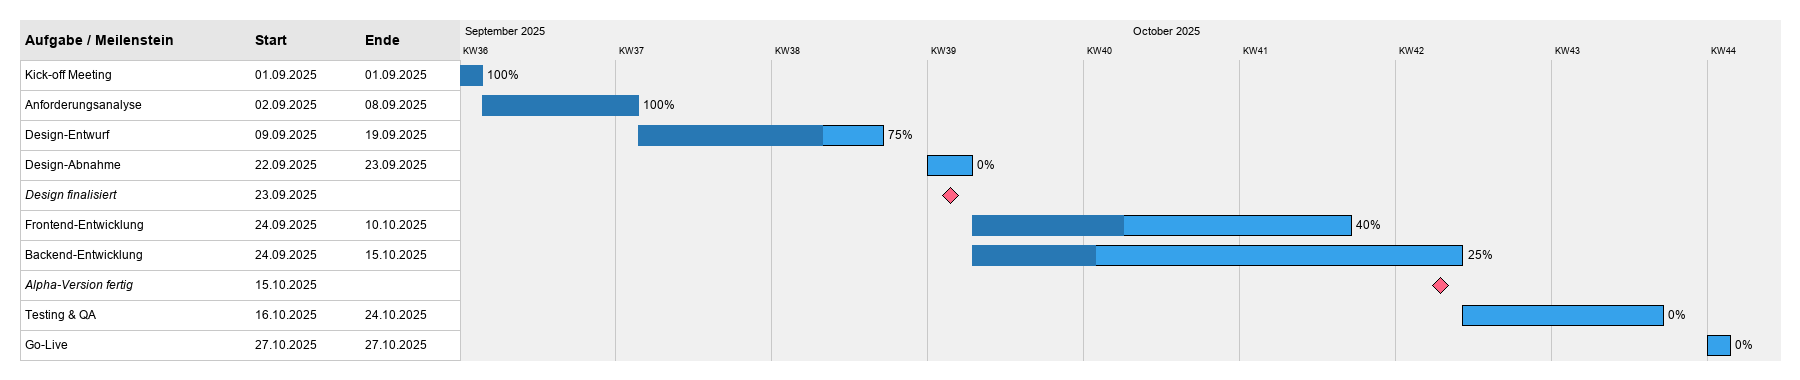
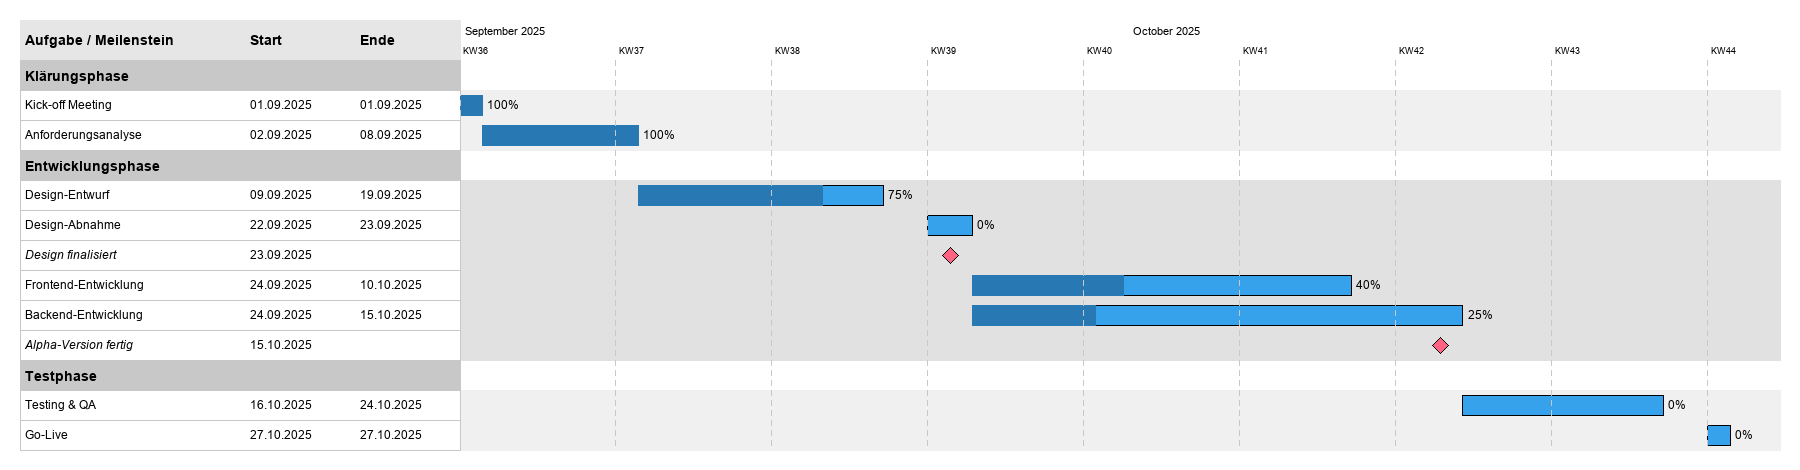
Phases

diff --git a/Gantt.py b/Gantt.py
@@ -24,7 +24,6 @@ def find_font(font_names):
 
 # --- Konfiguration ---
 # Schriften
-# Sucht automatisch nach einer passenden Schriftart, die Umlaute unterstützt.
 FONT_REGULAR_PATH = find_font(["arial.ttf", "DejaVuSans.ttf"])
 FONT_BOLD_PATH = find_font(["arialbd.ttf", "DejaVuSans-Bold.ttf"])
 FONT_ITALIC_PATH = find_font(["ariali.ttf", "DejaVuSans-Oblique.ttf"])
@@ -38,116 +37,104 @@ if FONT_REGULAR_PATH:
     FONT_CHART_WEEK = ImageFont.truetype(FONT_REGULAR_PATH, 9)
 else:
     print("Warnung: Keine passende Schriftart gefunden, die Umlaute unterstützt. Verwende Standard-Schriftart.")
-    print("Umlaute werden möglicherweise nicht korrekt dargestellt.")
     FONT_BOLD = ImageFont.load_default()
     FONT_REGULAR = ImageFont.load_default()
     FONT_ITALIC = FONT_REGULAR
     FONT_CHART_HEADER = ImageFont.load_default()
     FONT_CHART_WEEK = ImageFont.load_default()
 
-
 # Farben
 COLOR_WHITE = (255, 255, 255)
 COLOR_BLACK = (0, 0, 0)
 COLOR_GREY_LIGHT = (240, 240, 240)
+COLOR_GREY_DARK = (225, 225, 225) # Für abwechselnde Zeilen
 COLOR_GREY_MEDIUM = (200, 200, 200)
 COLOR_BLUE_PRIMARY = (54, 162, 235)
-COLOR_BLUE_DARK = (40, 120, 180) # Farbe für den Fortschrittsbalken
+COLOR_BLUE_DARK = (40, 120, 180)
 COLOR_HEADER_BG = (230, 230, 230)
+COLOR_CATEGORY_BG = (200, 200, 200)
 COLOR_RED_MILESTONE = (255, 99, 132)
 
 # Layout
 TOTAL_IMAGE_WIDTH = 1800
 PADDING = 20
-TABLE_WIDTH = 440 # Breite an die entfernte Spalte angepasst
+TABLE_WIDTH = 440
 HEADER_HEIGHT = 40
 ROW_HEIGHT = 30
 SPACE_BETWEEN = 0
-MILESTONE_SIZE = 8 # Größe der Raute
-TEXT_AREA_WIDTH = 50 # Platz für den Erfüllungsgrad-Text neben den Balken
+MILESTONE_SIZE = 8
+TEXT_AREA_WIDTH = 50
 
 # --- 1. Daten definieren ---
 tasks_data = [
-    {'name': 'Kick-off Meeting', 'start': datetime.date(2025, 9, 1), 'duration': 1, 'completion': 100},
-    {'name': 'Anforderungsanalyse', 'start': datetime.date(2025, 9, 2), 'duration': 7, 'completion': 100},
-    {'name': 'Design-Entwurf', 'start': datetime.date(2025, 9, 9), 'duration': 11, 'completion': 75},
-    {'name': 'Design-Abnahme', 'start': datetime.date(2025, 9, 22), 'duration': 2, 'completion': 0},
-    {'name': 'Frontend-Entwicklung', 'start': datetime.date(2025, 9, 24), 'duration': 17, 'completion': 40},
-    {'name': 'Backend-Entwicklung', 'start': datetime.date(2025, 9, 24), 'duration': 22, 'completion': 25},
-    {'name': 'Testing & QA', 'start': datetime.date(2025, 10, 16), 'duration': 9, 'completion': 0},
-    {'name': 'Go-Live', 'start': datetime.date(2025, 10, 27), 'duration': 1, 'completion': 0}
+    {'name': 'Kick-off Meeting', 'category': 'Klärungsphase', 'start': datetime.date(2025, 9, 1), 'duration': 1, 'completion': 100},
+    {'name': 'Anforderungsanalyse', 'category': 'Klärungsphase', 'start': datetime.date(2025, 9, 2), 'duration': 7, 'completion': 100},
+    {'name': 'Design-Entwurf', 'category': 'Entwicklungsphase', 'start': datetime.date(2025, 9, 9), 'duration': 11, 'completion': 75},
+    {'name': 'Design-Abnahme', 'category': 'Entwicklungsphase', 'start': datetime.date(2025, 9, 22), 'duration': 2, 'completion': 0},
+    {'name': 'Frontend-Entwicklung', 'category': 'Entwicklungsphase', 'start': datetime.date(2025, 9, 24), 'duration': 17, 'completion': 40},
+    {'name': 'Backend-Entwicklung', 'category': 'Entwicklungsphase', 'start': datetime.date(2025, 9, 24), 'duration': 22, 'completion': 25},
+    {'name': 'Testing & QA', 'category': 'Testphase', 'start': datetime.date(2025, 10, 16), 'duration': 9, 'completion': 0},
+    {'name': 'Go-Live', 'category': 'Testphase', 'start': datetime.date(2025, 10, 27), 'duration': 1, 'completion': 0}
 ]
 
 milestones_data = [
-    {'name': 'Design finalisiert', 'date': datetime.date(2025, 9, 23)},
-    {'name': 'Alpha-Version fertig', 'date': datetime.date(2025, 10, 15)}
+    {'name': 'Design finalisiert', 'category': 'Entwicklungsphase', 'date': datetime.date(2025, 9, 23)},
+    {'name': 'Alpha-Version fertig', 'category': 'Entwicklungsphase', 'date': datetime.date(2025, 10, 15)}
 ]
 
-# Daten für die Verarbeitung vorbereiten
-project_items = []
+# Daten für die Verarbeitung vorbereiten und gruppieren
+all_items = []
 for task in tasks_data:
     task['type'] = 'task'
     task['end'] = task['start'] + timedelta(days=task['duration'] - 1)
-    project_items.append(task)
+    all_items.append(task)
 
 for milestone in milestones_data:
     milestone['type'] = 'milestone'
-    milestone['start'] = milestone['date'] # Für die Sortierung
-    project_items.append(milestone)
+    milestone['start'] = milestone['date']
+    all_items.append(milestone)
 
-# Alle Einträge nach Startdatum sortieren
-project_items.sort(key=lambda x: x['start'])
+# Nach Kategorien gruppieren
+categorized_items = {}
+category_order = []
+for item in all_items:
+    category = item.get('category', 'Sonstiges')
+    if category not in categorized_items:
+        categorized_items[category] = []
+        category_order.append(category)
+    categorized_items[category].append(item)
 
+# Einträge innerhalb jeder Kategorie nach Datum sortieren
+for category in categorized_items:
+    categorized_items[category].sort(key=lambda x: x['start'])
 
 # --- 2. Bilddimensionen berechnen ---
-project_start_date = min(item['start'] for item in project_items)
-project_end_date = max(item.get('end', item['start']) for item in project_items)
+project_start_date = min(item['start'] for item in all_items)
+project_end_date = max(item.get('end', item['start']) for item in all_items)
 project_duration_days = (project_end_date - project_start_date).days + 1
 
 CHART_WIDTH = TOTAL_IMAGE_WIDTH - (PADDING * 2 + TABLE_WIDTH + SPACE_BETWEEN + TEXT_AREA_WIDTH)
-if CHART_WIDTH < 200:
-    CHART_WIDTH = 200
-    print("Warnung: TOTAL_IMAGE_WIDTH ist sehr klein. Der Chart wird auf 200px Breite begrenzt.")
-
 pixels_per_day = CHART_WIDTH / project_duration_days
 
-IMG_HEIGHT = PADDING * 2 + HEADER_HEIGHT + len(project_items) * ROW_HEIGHT
+IMG_HEIGHT = PADDING * 2 + HEADER_HEIGHT + (len(all_items) + len(category_order)) * ROW_HEIGHT
 IMG_WIDTH = TOTAL_IMAGE_WIDTH
 
 # --- 3. Bild-Leinwand erstellen ---
 image = Image.new('RGB', (int(IMG_WIDTH), IMG_HEIGHT), COLOR_WHITE)
 draw = ImageDraw.Draw(image)
 
-# --- 4. Tabelle zeichnen ---
+# --- 4. Tabelle und Diagramm-Hintergrund zeichnen ---
 table_x, table_y = PADDING, PADDING
-col1_x, col2_x, col3_x = table_x, table_x + 230, table_x + 340
-
-# Tabellenüberschrift
-draw.rectangle([table_x, table_y, table_x + TABLE_WIDTH, table_y + HEADER_HEIGHT], fill=COLOR_HEADER_BG)
-draw.text((col1_x + 5, table_y + 12), "Aufgabe / Meilenstein", font=FONT_BOLD, fill=COLOR_BLACK)
-draw.text((col2_x + 5, table_y + 12), "Start", font=FONT_BOLD, fill=COLOR_BLACK)
-draw.text((col3_x + 5, table_y + 12), "Ende", font=FONT_BOLD, fill=COLOR_BLACK)
-
-# Tabellenzeilen
-current_y = table_y + HEADER_HEIGHT
-for item in project_items:
-    draw.rectangle([table_x, current_y, table_x + TABLE_WIDTH, current_y + ROW_HEIGHT], outline=COLOR_GREY_MEDIUM)
-    if item['type'] == 'task':
-        draw.text((col1_x + 5, current_y + 8), item['name'], font=FONT_REGULAR, fill=COLOR_BLACK)
-        draw.text((col2_x + 5, current_y + 8), item['start'].strftime('%d.%m.%Y'), font=FONT_REGULAR, fill=COLOR_BLACK)
-        draw.text((col3_x + 5, current_y + 8), item['end'].strftime('%d.%m.%Y'), font=FONT_REGULAR, fill=COLOR_BLACK)
-    elif item['type'] == 'milestone':
-        draw.text((col1_x + 5, current_y + 8), item['name'], font=FONT_ITALIC, fill=COLOR_BLACK)
-        draw.text((col2_x + 5, current_y + 8), item['date'].strftime('%d.%m.%Y'), font=FONT_REGULAR, fill=COLOR_BLACK)
-    current_y += ROW_HEIGHT
-
-# --- 5. Gantt-Diagramm zeichnen ---
 chart_x = table_x + TABLE_WIDTH + SPACE_BETWEEN
 chart_y = table_y
 
-# Chart-Hintergrund und Zeitachse
-draw.rectangle([chart_x, chart_y, chart_x + CHART_WIDTH + TEXT_AREA_WIDTH, IMG_HEIGHT - PADDING], fill=COLOR_GREY_LIGHT)
+# Globale Überschriften
+draw.rectangle([table_x, table_y, table_x + TABLE_WIDTH, table_y + HEADER_HEIGHT], fill=COLOR_HEADER_BG)
+draw.text((table_x + 5, table_y + 12), "Aufgabe / Meilenstein", font=FONT_BOLD, fill=COLOR_BLACK)
+draw.text((table_x + 230, table_y + 12), "Start", font=FONT_BOLD, fill=COLOR_BLACK)
+draw.text((table_x + 340, table_y + 12), "Ende", font=FONT_BOLD, fill=COLOR_BLACK)
 
+# Zeitachsen-Überschriften (Monat und KW)
 current_date = project_start_date
 while current_date <= project_end_date:
     if current_date.day == 1:
@@ -155,51 +142,75 @@ while current_date <= project_end_date:
         draw.text((month_start_x + 5, chart_y + 5), current_date.strftime('%B %Y'), font=FONT_CHART_HEADER, fill=COLOR_BLACK)
     if current_date.weekday() == 0:
         line_x = chart_x + ((current_date - project_start_date).days * pixels_per_day)
-        draw.line([(line_x, chart_y + HEADER_HEIGHT), (line_x, IMG_HEIGHT - PADDING)], fill=COLOR_GREY_MEDIUM, width=1)
         week_num = current_date.isocalendar()[1]
         draw.text((line_x + 3, chart_y + 25), f"KW{week_num}", font=FONT_CHART_WEEK, fill=COLOR_BLACK)
     current_date += timedelta(days=1)
 
-# Chart-Elemente (Balken und Rauten)
-current_y = chart_y + HEADER_HEIGHT
-for item in project_items:
-    if item['type'] == 'task':
-        start_offset_days = (item['start'] - project_start_date).days
-        bar_x = chart_x + (start_offset_days * pixels_per_day)
-        bar_width = item['duration'] * pixels_per_day
-        bar_y_top = current_y + 5
-        bar_y_bottom = current_y + ROW_HEIGHT - 5
-        
-        # Haupt-Balken zeichnen
-        draw.rectangle([bar_x, bar_y_top, bar_x + bar_width, bar_y_bottom], fill=COLOR_BLUE_PRIMARY, outline=COLOR_BLACK)
-        
-        # Fortschrittsbalken darüber zeichnen
-        completion_width = bar_width * (item.get('completion', 0) / 100)
-        if completion_width > 0:
-            draw.rectangle(
-                [bar_x, bar_y_top, bar_x + completion_width, bar_y_bottom],
-                fill=COLOR_BLUE_DARK
-            )
-        
-        # Erfüllungsgrad-Text neben den Balken schreiben
-        text_x = bar_x + bar_width + 5
-        text_y = current_y + 8
-        draw.text((text_x, text_y), f"{item.get('completion', 0)}%", font=FONT_REGULAR, fill=COLOR_BLACK)
-
-    elif item['type'] == 'milestone':
-        date_offset_days = (item['date'] - project_start_date).days
-        center_x = chart_x + (date_offset_days * pixels_per_day)
-        center_y = current_y + (ROW_HEIGHT / 2)
-        
-        points = [
-            (center_x, center_y - MILESTONE_SIZE),
-            (center_x + MILESTONE_SIZE, center_y),
-            (center_x, center_y + MILESTONE_SIZE),
-            (center_x - MILESTONE_SIZE, center_y)
-        ]
-        draw.polygon(points, fill=COLOR_RED_MILESTONE, outline=COLOR_BLACK)
-
+# Kategorien und Einträge durchlaufen
+current_y = table_y + HEADER_HEIGHT
+category_index = 0
+for category_name in category_order:
+    # Kategorie-Überschrift
+    draw.rectangle([table_x, current_y, table_x + TABLE_WIDTH, current_y + ROW_HEIGHT], fill=COLOR_CATEGORY_BG)
+    draw.text((table_x + 5, current_y + 8), category_name, font=FONT_BOLD, fill=COLOR_BLACK)
+    
+    # Hintergrund für Kategorie im Chart
+    bg_color = COLOR_GREY_LIGHT if category_index % 2 == 0 else COLOR_GREY_DARK
+    chart_bg_y_start = current_y + ROW_HEIGHT
+    chart_bg_y_end = chart_bg_y_start + len(categorized_items[category_name]) * ROW_HEIGHT
+    draw.rectangle([chart_x, chart_bg_y_start, chart_x + CHART_WIDTH + TEXT_AREA_WIDTH, chart_bg_y_end], fill=bg_color)
+    
     current_y += ROW_HEIGHT
+    
+    # Einträge der Kategorie zeichnen
+    for item in categorized_items[category_name]:
+        # Tabellenzeile
+        draw.rectangle([table_x, current_y, table_x + TABLE_WIDTH, current_y + ROW_HEIGHT], outline=COLOR_GREY_MEDIUM)
+        if item['type'] == 'task':
+            draw.text((table_x + 5, current_y + 8), item['name'], font=FONT_REGULAR, fill=COLOR_BLACK)
+            draw.text((table_x + 230, current_y + 8), item['start'].strftime('%d.%m.%Y'), font=FONT_REGULAR, fill=COLOR_BLACK)
+            draw.text((table_x + 340, current_y + 8), item['end'].strftime('%d.%m.%Y'), font=FONT_REGULAR, fill=COLOR_BLACK)
+            
+            # Aufgabenbalken im Chart
+            start_offset = (item['start'] - project_start_date).days * pixels_per_day
+            bar_width = item['duration'] * pixels_per_day
+            bar_x = chart_x + start_offset
+            draw.rectangle([bar_x, current_y + 5, bar_x + bar_width, current_y + ROW_HEIGHT - 5], fill=COLOR_BLUE_PRIMARY, outline=COLOR_BLACK)
+            
+            completion_width = bar_width * (item.get('completion', 0) / 100)
+            if completion_width > 0:
+                draw.rectangle([bar_x, current_y + 5, bar_x + completion_width, current_y + ROW_HEIGHT - 5], fill=COLOR_BLUE_DARK)
+            
+            draw.text((bar_x + bar_width + 5, current_y + 8), f"{item.get('completion', 0)}%", font=FONT_REGULAR, fill=COLOR_BLACK)
+
+        elif item['type'] == 'milestone':
+            draw.text((table_x + 5, current_y + 8), item['name'], font=FONT_ITALIC, fill=COLOR_BLACK)
+            draw.text((table_x + 230, current_y + 8), item['date'].strftime('%d.%m.%Y'), font=FONT_REGULAR, fill=COLOR_BLACK)
+            
+            # Meilenstein-Raute im Chart
+            offset = (item['date'] - project_start_date).days * pixels_per_day
+            center_x = chart_x + offset
+            center_y = current_y + (ROW_HEIGHT / 2)
+            points = [(center_x, center_y - MILESTONE_SIZE), (center_x + MILESTONE_SIZE, center_y),
+                      (center_x, center_y + MILESTONE_SIZE), (center_x - MILESTONE_SIZE, center_y)]
+            draw.polygon(points, fill=COLOR_RED_MILESTONE, outline=COLOR_BLACK)
+            
+        current_y += ROW_HEIGHT
+    category_index += 1
+
+# --- 5. Vordergründige Wochenlinien zeichnen (gestrichelt) ---
+current_date = project_start_date
+while current_date <= project_end_date:
+    if current_date.weekday() == 0: # Montag
+        line_x = chart_x + ((current_date - project_start_date).days * pixels_per_day)
+        line_y_start = chart_y + HEADER_HEIGHT
+        line_y_end = IMG_HEIGHT - PADDING
+        
+        # Gestrichelte Linie manuell zeichnen
+        for y in range(line_y_start, line_y_end, 10): # 10 = Strichlänge + Lücke
+            draw.line([(line_x, y), (line_x, y + 5)], fill=COLOR_GREY_MEDIUM, width=1) # 5 = Strichlänge
+            
+    current_date += timedelta(days=1)
 
 # --- 6. Bild speichern ---
 output_filename = "projektplan.png"
